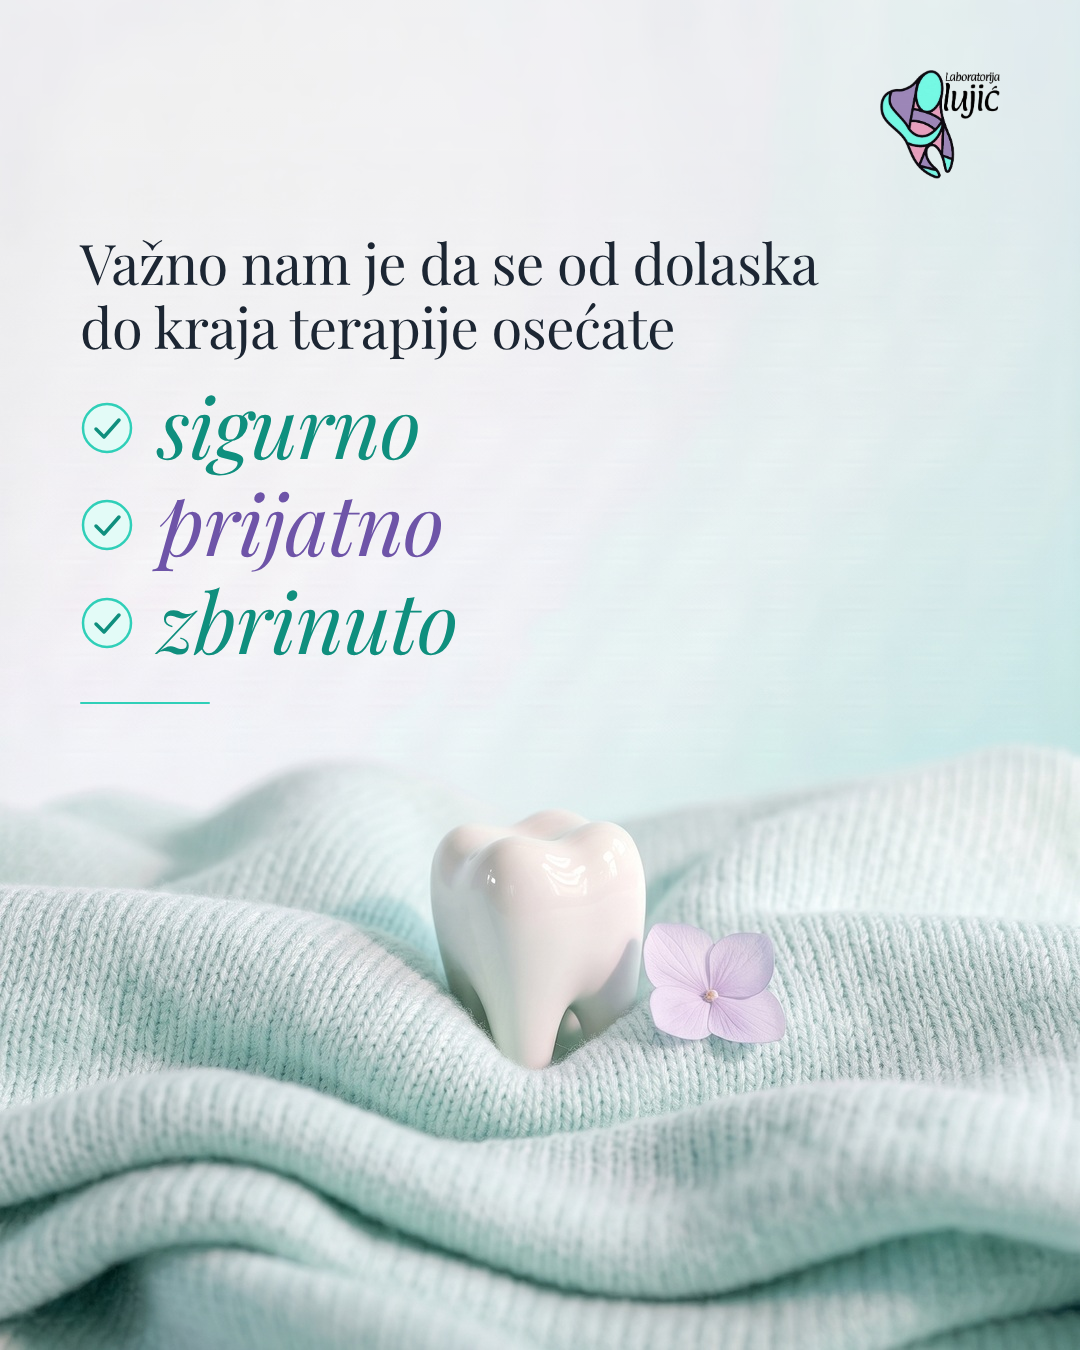
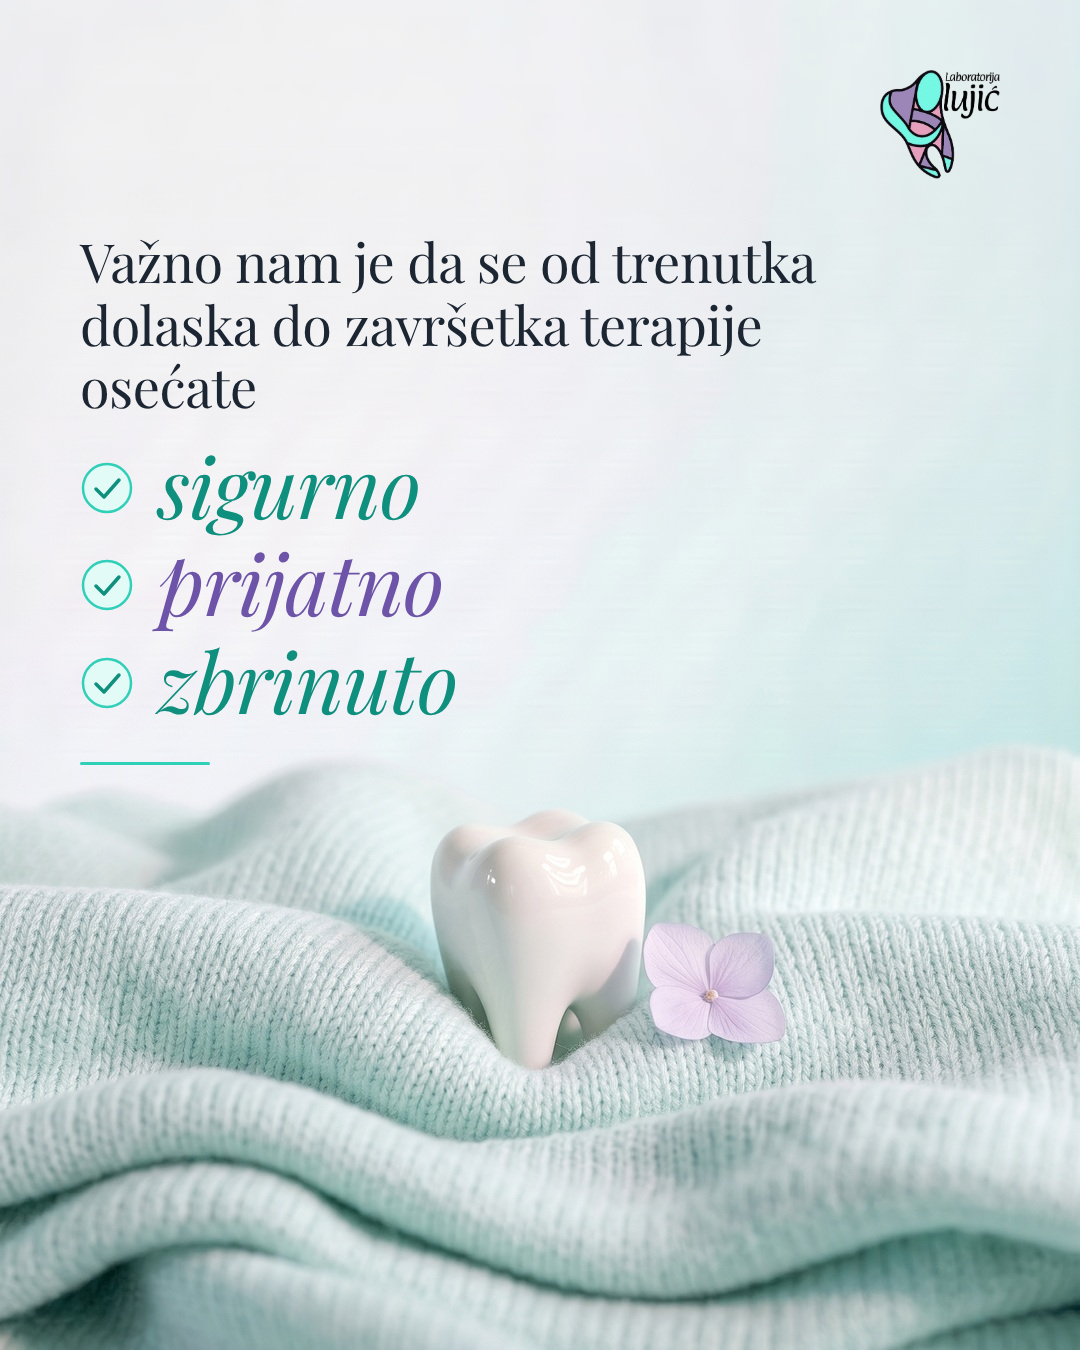
Olujić smeštaj foto slide 5: full wording 'od trenutka dolaska do završetka terapije'
Claude-Session: https://claude.ai/code/session_015Zt4Xxmto9TPrfhFawYg1y

Changed region(s): [[0.0611, 0.1867, 0.7639, 0.5289]]

diff --git a/olujic/karusel_smestaj_foto/izvor/s5.html b/olujic/karusel_smestaj_foto/izvor/s5.html
@@ -17,7 +17,7 @@
 <div class="s" id="s1">
   <img src="logo.png" style="position:absolute;right:80px;top:70px;width:120px;z-index:5">
   <div class="blk" style="top:230px">
-    <div class="u" style="font-size:56px;line-height:1.14">Važno nam je da se od dolaska<br>do kraja terapije osećate</div>
+    <div class="u" style="font-size:54px;line-height:1.16">Važno nam je da se od trenutka<br>dolaska do završetka terapije<br>osećate</div>
     <div class="i" style="font-size:84px;line-height:1.16;margin-top:18px"><svg width="54" height="54" viewBox="0 0 54 54" style="vertical-align:4px;margin-right:24px"><circle cx="27" cy="27" r="24" fill="#E3FBF7" stroke="#2FCFB8" stroke-width="2.5"/><path d="M16 28 L24 36 L39 19" fill="none" stroke="#0F8F7E" stroke-width="3.5" stroke-linecap="round" stroke-linejoin="round"/></svg>sigurno<br><svg width="54" height="54" viewBox="0 0 54 54" style="vertical-align:4px;margin-right:24px"><circle cx="27" cy="27" r="24" fill="#E3FBF7" stroke="#2FCFB8" stroke-width="2.5"/><path d="M16 28 L24 36 L39 19" fill="none" stroke="#0F8F7E" stroke-width="3.5" stroke-linecap="round" stroke-linejoin="round"/></svg><span style="color:var(--lilacD)">prijatno</span><br><svg width="54" height="54" viewBox="0 0 54 54" style="vertical-align:4px;margin-right:24px"><circle cx="27" cy="27" r="24" fill="#E3FBF7" stroke="#2FCFB8" stroke-width="2.5"/><path d="M16 28 L24 36 L39 19" fill="none" stroke="#0F8F7E" stroke-width="3.5" stroke-linecap="round" stroke-linejoin="round"/></svg>zbrinuto</div>
     <div class="r" style="margin-top:34px"></div>
   </div>
